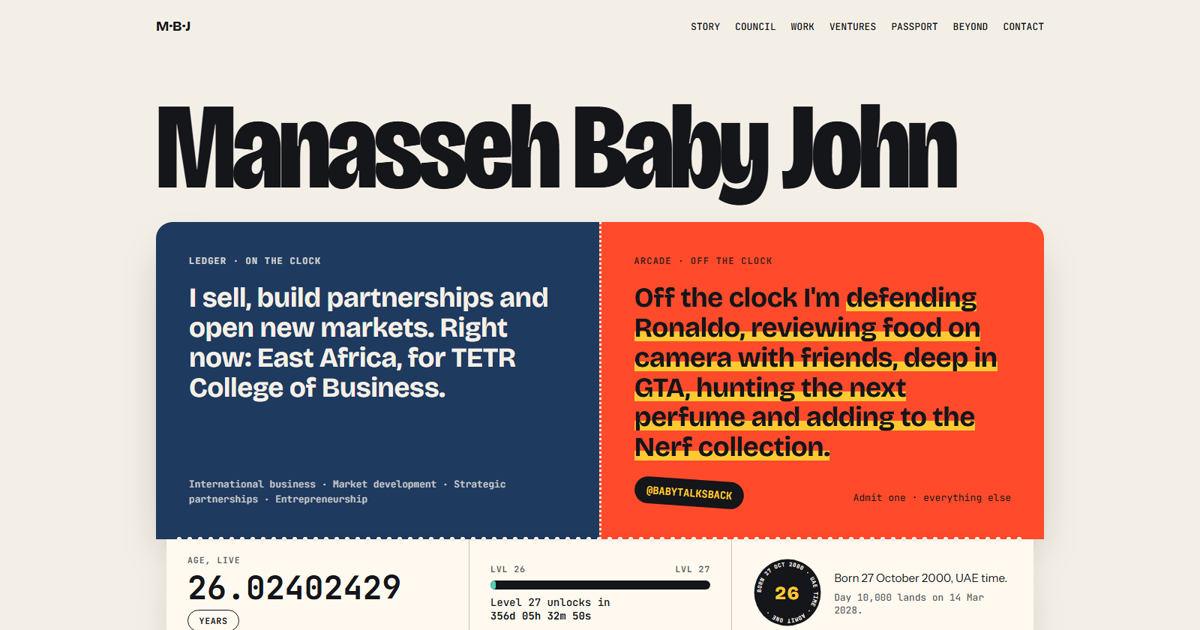
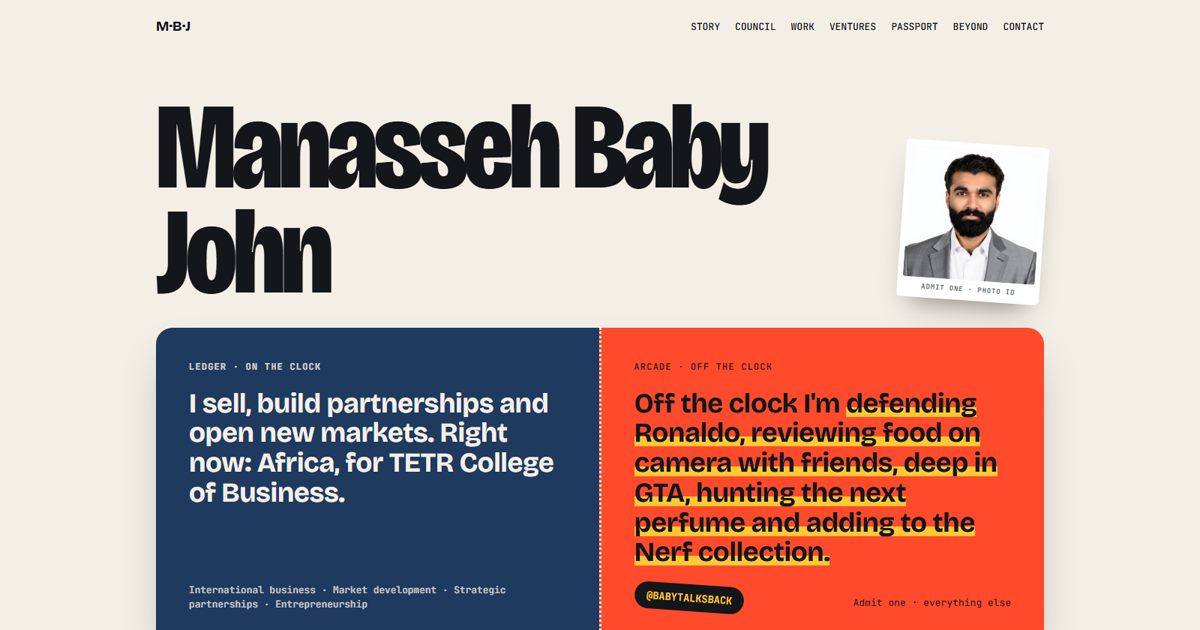
Add the owner's photos; quick fixes for the pill, timeline dates and CONTINUE
- Photos (metadata stripped, resized): headshot ID badge in the hero, three childhood/school prints in Origin, campaign posters in High scores and under the ballot, TETR photo in Work, a camera roll in Off the clock
- School photos cropped so other children are out of frame; sofa photo cropped to the face so the T-shirt print is out
- Bottom pill tucks away while scrolling down and returns on the way up; never while its menu is open or focused
- Career rail axis, TETR bar end and footer year come from today's date instead of being fixed to 2026
- CONTINUE countdown ends on PRESS START (also with reduced motion)
- Removed tab stops from career tickets and interest cards, which did nothing on focus
- Share image regenerated with the photo and the Africa line

diff --git a/index.html b/index.html
@@ -20,7 +20,7 @@
 <link rel="preconnect" href="https://fonts.googleapis.com"><link rel="preconnect" href="https://fonts.gstatic.com" crossorigin>
 <link href="https://fonts.googleapis.com/css2?family=Bricolage+Grotesque:opsz,wdth,wght@12..96,75..100,400..800&family=Instrument+Sans:wght@400;500;600;700&family=JetBrains+Mono:wght@400;500;700&display=swap" rel="stylesheet">
 <!-- bump ?v= on site.css and main.js with each release so browsers fetch the new files -->
-<link rel="stylesheet" href="assets/site.css?v=6">
+<link rel="stylesheet" href="assets/site.css?v=7">
 </head>
 <body>
 <a class="skip" href="#main">Skip to content</a>
@@ -35,7 +35,7 @@
         <a href="#story">Story</a><a href="#council">Council</a><a href="#work">Work</a><a href="#ventures">Ventures</a><a href="#passport">Passport</a><a href="#beyond">Beyond</a><a href="#contact">Contact</a>
       </nav>
     </div>
-    <h1 class="name" data-name>Manasseh Baby John</h1>
+    <div class="name-row"><h1 class="name" data-name>Manasseh Baby John</h1><figure class="idphoto"><img src="assets/img/headshot.jpg" alt="Manasseh Baby John" width="500" height="500"><figcaption class="mono">Admit one · photo ID</figcaption></figure></div>
 
     <div class="tk" role="group" aria-label="Two sides of the same ticket">
       <div class="tk-half tk-ledger">
@@ -87,7 +87,7 @@
 
 <section class="origin" id="story" data-island="Origin story">
   <div class="wrap origin-grid">
-    <p class="big12" aria-hidden="true">12<span class="sticker" data-x2>×2</span></p>
+    <div class="origin-left"><p class="big12" aria-hidden="true">12<span class="sticker" data-x2>×2</span></p><div class="prints" data-reveal><figure class="print"><img src="assets/img/young-hoodie.jpg" alt="Manasseh as a young boy in a hoodie" width="600" height="458" loading="lazy" decoding="async"><figcaption>Young me</figcaption></figure><figure class="print"><img src="assets/img/school-polo.jpg" alt="Manasseh as a schoolboy in a cap and green school polo" width="480" height="480" loading="lazy" decoding="async"><figcaption>School days</figcaption></figure><figure class="print"><img src="assets/img/school-uniform.jpg" alt="Manasseh in his green school uniform" width="480" height="480" loading="lazy" decoding="async"><figcaption>Still in uniform</figcaption></figure></div></div>
     <div>
       <p class="lbl"><b>01</b>Origin story</p>
       <h2 data-split>It started at 12.</h2>
@@ -107,8 +107,8 @@
   <canvas class="dotgrid" aria-hidden="true"></canvas>
   <div class="wrap">
     <p class="lbl"><b>02</b>Student Council · Heriot-Watt University</p>
-    <h2 data-split>High scores.</h2>
-    <p class="lede" data-reveal>Executive of Events in 2019, then Vice President of Events in 2020 and 2021, on the Heriot-Watt University Student Council. Player one: MBJ.</p>
+    <div class="scores-head"><div><h2 data-split>High scores.</h2>
+    <p class="lede" data-reveal>Executive of Events in 2019, then Vice President of Events in 2020 and 2021, on the Heriot-Watt University Student Council. Player one: MBJ.</p></div><div class="posters" data-reveal><figure class="print taped"><img src="assets/img/poster-vp.jpg" alt="Campaign poster: Vote for Manasseh Baby John, Vice President of Events &amp; Community" width="560" height="700" loading="lazy" decoding="async"></figure><figure class="print taped"><img src="assets/img/poster-years.jpg" alt="Campaign poster marking 2019, 2020, 2021 and a fourth year: It's that time of the year again" width="450" height="800" loading="lazy" decoding="async"></figure></div></div>
     <table class="board">
       <thead><tr><th scope="col">Score</th><th scope="col">Entry</th><th scope="col">Player</th></tr></thead>
       <tbody>
@@ -127,6 +127,7 @@
 
 <section class="twist" id="twist" data-island="Plot twist">
   <div class="wrap twist-grid">
+    <div class="ballot-col">
     <div class="ballot" data-ballot>
       <p class="ballot-h">Heriot-Watt University Student Council · Ballot</p>
       <ul>
@@ -135,6 +136,8 @@
         <li><span>VP of Events · 2021</span><b>Won</b></li>
       </ul>
       <div class="pres"><div><h3>President</h3><span class="mono">Record start: most votes in the first three days</span></div><span class="stamp" data-stamp>Disqualified</span></div>
+    </div>
+      <figure class="print taped pres-poster"><img src="assets/img/poster-president.jpg" alt="Campaign poster: Vote Manasseh Baby John, number 4, for Student President" width="640" height="642" loading="lazy" decoding="async"></figure>
     </div>
     <div>
       <p class="lbl lbl-light"><b>03</b>Plot twist</p>
@@ -151,8 +154,8 @@
 <section class="work" id="work" data-island="The work">
   <div class="wrap">
     <p class="lbl"><b>04</b>The work</p>
-    <h2 data-split>Right now: TETR College of Business.</h2>
-    <p class="lede" data-reveal>Regional Manager (MENA), International Recruitment &amp; Partnerships, since October 2024. I'm building TETR's presence in Tanzania, Kenya, Rwanda and Ethiopia: researching the market, finding partners worth having, writing proposals, negotiating, then watching the pipeline for where it leaks.</p>
+    <div class="work-intro"><div><h2 data-split>Right now: TETR College of Business.</h2>
+    <p class="lede" data-reveal>Regional Manager (MENA), International Recruitment &amp; Partnerships, since October 2024. I'm building TETR's presence in Tanzania, Kenya, Rwanda and Ethiopia: researching the market, finding partners worth having, writing proposals, negotiating, then watching the pipeline for where it leaks.</p></div><figure class="print taped" data-reveal><img src="assets/img/tetr-lanyard.jpg" alt="Manasseh at work, wearing his TETR lanyard" width="600" height="800" loading="lazy" decoding="async"><figcaption>On the job</figcaption></figure></div>
 
     <div class="flapwrap" data-reveal>
       <div class="flap-top"><img class="tetr-logo" src="assets/tetr-logo.svg" alt="TETR College of Business" width="137" height="69"><p class="mono">Regional Manager (MENA) · since Oct 2024</p></div>
@@ -193,7 +196,7 @@
     </div>
     <div class="track-clip">
       <div class="track" data-track>
-        <article class="tix t-transit" tabindex="0">
+        <article class="tix t-transit">
           <div class="tx-head mono"><span>RTA · Dubai Tram · Single journey</span><span class="punch" aria-hidden="true"><i></i><i></i><i></i></span></div>
           <p class="when">Summer 2019</p>
           <h4>Ontime Manpower Supply</h4>
@@ -202,7 +205,7 @@
           <svg class="tram-line" viewBox="0 0 300 30" aria-hidden="true"><path d="M8 15H292"/><circle cx="8" cy="15" r="6"/><circle cx="79" cy="15" r="5"/><circle cx="150" cy="15" r="5"/><circle cx="221" cy="15" r="5"/><circle class="end" cx="292" cy="15" r="7"/></svg>
           <div class="tx-foot"><p class="mono">Fare<b>200+ students</b></p><span class="validated mono" aria-hidden="true">Validated<b>2019</b></span></div>
         </article>
-        <article class="tix t-label" tabindex="0">
+        <article class="tix t-label">
           <div class="lb-grid mono">
             <p><small>Ship from</small>Warehouse floor</p>
             <p><small>Ship to</small>Final year</p>
@@ -215,7 +218,7 @@
           <div class="barcode" aria-hidden="true"></div>
           <p class="mono trk" aria-hidden="true"><span>MBJ</span><span>2021</span><span>Summer</span><span>Qty 1</span></p>
         </article>
-        <article class="tix t-lanyard" tabindex="0" data-lanyard>
+        <article class="tix t-lanyard" data-lanyard>
           <div class="strap" aria-hidden="true"><span>EXPO 2020 DUBAI · EXPO 2020 DUBAI</span></div>
           <div class="holo" aria-hidden="true"></div>
           <div class="pass-top"><span class="avatar mono" aria-hidden="true">MBJ</span><div><p class="when">Jan – Mar 2022</p><h4>EXPO 2020 Dubai</h4></div></div>
@@ -223,7 +226,7 @@
           <p>Volunteers, visitors and event operations for one of the smallest countries at the biggest show in town.</p>
           <div class="pass-foot"><svg class="qr" viewBox="0 0 11 11" aria-hidden="true"><rect x="0" y="0" width="1" height="1"/><rect x="1" y="0" width="1" height="1"/><rect x="2" y="0" width="1" height="1"/><rect x="4" y="0" width="1" height="1"/><rect x="8" y="0" width="1" height="1"/><rect x="9" y="0" width="1" height="1"/><rect x="10" y="0" width="1" height="1"/><rect x="0" y="1" width="1" height="1"/><rect x="1" y="1" width="1" height="1"/><rect x="2" y="1" width="1" height="1"/><rect x="7" y="1" width="1" height="1"/><rect x="8" y="1" width="1" height="1"/><rect x="9" y="1" width="1" height="1"/><rect x="10" y="1" width="1" height="1"/><rect x="0" y="2" width="1" height="1"/><rect x="1" y="2" width="1" height="1"/><rect x="2" y="2" width="1" height="1"/><rect x="3" y="2" width="1" height="1"/><rect x="7" y="2" width="1" height="1"/><rect x="8" y="2" width="1" height="1"/><rect x="9" y="2" width="1" height="1"/><rect x="10" y="2" width="1" height="1"/><rect x="5" y="3" width="1" height="1"/><rect x="6" y="3" width="1" height="1"/><rect x="9" y="3" width="1" height="1"/><rect x="1" y="4" width="1" height="1"/><rect x="3" y="4" width="1" height="1"/><rect x="5" y="4" width="1" height="1"/><rect x="8" y="4" width="1" height="1"/><rect x="10" y="5" width="1" height="1"/><rect x="2" y="6" width="1" height="1"/><rect x="6" y="6" width="1" height="1"/><rect x="7" y="6" width="1" height="1"/><rect x="8" y="6" width="1" height="1"/><rect x="1" y="7" width="1" height="1"/><rect x="2" y="7" width="1" height="1"/><rect x="3" y="7" width="1" height="1"/><rect x="4" y="7" width="1" height="1"/><rect x="8" y="7" width="1" height="1"/><rect x="0" y="8" width="1" height="1"/><rect x="1" y="8" width="1" height="1"/><rect x="2" y="8" width="1" height="1"/><rect x="5" y="8" width="1" height="1"/><rect x="6" y="8" width="1" height="1"/><rect x="7" y="8" width="1" height="1"/><rect x="8" y="8" width="1" height="1"/><rect x="0" y="9" width="1" height="1"/><rect x="1" y="9" width="1" height="1"/><rect x="2" y="9" width="1" height="1"/><rect x="0" y="10" width="1" height="1"/><rect x="1" y="10" width="1" height="1"/><rect x="2" y="10" width="1" height="1"/><rect x="3" y="10" width="1" height="1"/><rect x="5" y="10" width="1" height="1"/><rect x="6" y="10" width="1" height="1"/></svg><p class="mono">Palau Pavilion<b>Volunteer Lead</b></p></div>
         </article>
-        <article class="tix t-staff" tabindex="0">
+        <article class="tix t-staff">
           <div class="band mono" aria-hidden="true"><span>Staff</span><span>MENA</span></div>
           <div class="id-row" aria-hidden="true"><span class="chip"></span><span class="avatar mono">MBJ</span></div>
           <p class="when">Mar 2022 – Oct 2024</p>
@@ -232,7 +235,7 @@
           <p>I started before I'd technically graduated. Partners, agents and institutions across MENA, and a crash course in how universities actually make decisions.</p>
           <div class="magstripe" aria-hidden="true"></div>
         </article>
-        <article class="tix t-board" tabindex="0">
+        <article class="tix t-board">
           <div class="bp-head"><img class="tetr-logo sm" src="assets/tetr-logo.svg" alt="" width="137" height="69"><span class="mono">Boarding pass</span></div>
           <div class="bp mono" aria-hidden="true"><span>From<b>UAE</b></span><span class="plane"></span><span>To<b>Africa</b></span></div>
           <p class="when">Oct 2024 – now</p>
@@ -371,11 +374,12 @@
   </div>
   <div class="wrap">
     <div class="bounce" data-bounce>
-      <article class="bc bc-1" tabindex="0"><p class="mono">Fragrance</p><h3>Perfume</h3><p>Big perfume person. Ask me for a recommendation, then clear your afternoon.</p></article>
-      <article class="bc bc-2" tabindex="0"><p class="mono">Gaming</p><h3>GTA &amp; co.</h3><p>GTA and every big release. I play to win, which won't surprise anyone who has read this far.</p></article>
-      <article class="bc bc-3" tabindex="0"><p class="mono">Football</p><h3>Cristiano Ronaldo</h3><p>Happy to discuss it. Not going to change my mind.</p></article>
-      <article class="bc bc-4" tabindex="0"><p class="mono">Collection</p><h3>Nerf</h3><p>A large Nerf blaster collection. Grown-up? Debatable.</p></article>
+      <article class="bc bc-1"><p class="mono">Fragrance</p><h3>Perfume</h3><p>Big perfume person. Ask me for a recommendation, then clear your afternoon.</p></article>
+      <article class="bc bc-2"><p class="mono">Gaming</p><h3>GTA &amp; co.</h3><p>GTA and every big release. I play to win, which won't surprise anyone who has read this far.</p></article>
+      <article class="bc bc-3"><p class="mono">Football</p><h3>Cristiano Ronaldo</h3><p>Happy to discuss it. Not going to change my mind.</p></article>
+      <article class="bc bc-4"><p class="mono">Collection</p><h3>Nerf</h3><p>A large Nerf blaster collection. Grown-up? Debatable.</p></article>
     </div>
+    <div class="roll" data-reveal><p class="mono">Camera roll</p><div class="roll-grid"><figure class="print"><img src="assets/img/life-sofa.jpg" alt="Manasseh relaxing on a sofa" width="580" height="460" loading="lazy" decoding="async"></figure><figure class="print"><img src="assets/img/life-lift.jpg" alt="Lift mirror selfie" width="540" height="720" loading="lazy" decoding="async"></figure><figure class="print"><img src="assets/img/life-mirror.jpg" alt="Mirror selfie with headphones" width="450" height="800" loading="lazy" decoding="async"></figure><figure class="print"><img src="assets/img/life-suit.jpg" alt="Mirror selfie in a black suit" width="540" height="720" loading="lazy" decoding="async"></figure></div></div>
     <div class="tapes">
       <article class="tape tape-main"><p class="mono"><a href="https://www.instagram.com/babytalksback/" target="_blank" rel="noopener">@babytalksback <span aria-hidden="true">↗</span></a></p><h3>Baby Talks Back</h3><p>My main channel and the loudest version of me: podcast-style conversations, food reviews with friends, everyday life.</p></article>
       <article class="tape"><p class="mono"><a href="https://www.instagram.com/chestgangvlogs/" target="_blank" rel="noopener">@chestgangvlogs <span aria-hidden="true">↗</span></a></p><h3>Chestgangvlogs</h3><p>Where it started, before it grew into Baby Talks Back.</p></article>
@@ -405,7 +409,7 @@
 </section>
 </main>
 
-<footer class="foot-bar"><div class="wrap"><span>© 2026 Manasseh Baby John</span><span>Age at time of reading: <b data-age-mini>26.0233</b></span></div></footer>
+<footer class="foot-bar"><div class="wrap"><span>© <span data-year>2026</span> Manasseh Baby John</span><span>Age at time of reading: <b data-age-mini>26.0233</b></span></div></footer>
 
 <nav class="island" data-island-nav aria-label="Quick navigation">
   <button class="island-pill" type="button" aria-expanded="false" aria-controls="island-panel" data-island-toggle>
@@ -435,6 +439,6 @@
 <script src="https://cdn.jsdelivr.net/npm/gsap@3.15.0/dist/CustomWiggle.min.js" defer></script>
 <script src="https://cdn.jsdelivr.net/npm/gsap@3.15.0/dist/CustomBounce.min.js" defer></script>
 <script src="https://cdn.jsdelivr.net/npm/lenis@1.3.27/dist/lenis.min.js" defer></script>
-<script src="assets/main.js?v=6" defer></script>
+<script src="assets/main.js?v=7" defer></script>
 </body>
 </html>

diff --git a/assets/site.css b/assets/site.css
@@ -174,7 +174,7 @@ h2 { font:800 clamp(2.4rem,6vw,5rem)/.95 var(--display); letter-spacing:-.025em;
 .lane { display:grid; grid-template-columns:64px minmax(0,1fr); align-items:center; gap:12px; }
 .lane-k { font:700 .7rem var(--mono); text-transform:uppercase; letter-spacing:.08em; color:var(--mute); }
 .bars { position:relative; height:46px; }
-.bar { position:absolute; left:calc(var(--a) / 8 * 100%); width:calc((var(--b) - var(--a)) / 8 * 100%); top:15px; height:16px; border-radius:4px; background:var(--navy); transform-origin:left center; }
+.bar { position:absolute; left:calc(var(--a) / var(--span, 8) * 100%); width:calc((var(--b) - var(--a)) / var(--span, 8) * 100%); top:15px; height:16px; border-radius:4px; background:var(--navy); transform-origin:left center; }
 .bar.deg { background:var(--yellow); box-shadow:inset 0 0 0 2px var(--ink); }
 .bar.nike { background:var(--tomato); }
 .bar.tetr { background:var(--mint); box-shadow:inset 0 0 0 2px var(--ink); }
@@ -183,7 +183,7 @@ h2 { font:800 clamp(2.4rem,6vw,5rem)/.95 var(--display); letter-spacing:-.025em;
 .bar.hw em { left:auto; right:0; } /* keeps it clear of the Nike label below */
 .axis { width:calc(100% - 76px); height:8px; margin-left:76px; }
 .axis path { stroke:var(--ink); stroke-width:3; fill:none; vector-effect:non-scaling-stroke; }
-.years { display:grid; grid-template-columns:repeat(8,1fr); margin-left:76px; font:500 .7rem var(--mono); color:var(--mute); }
+.years { display:grid; grid-template-columns:repeat(var(--span, 8),1fr); margin-left:76px; font:500 .7rem var(--mono); color:var(--mute); }
 @media (max-width:560px) { .lane { grid-template-columns:44px minmax(0,1fr); gap:8px; } .axis, .years { margin-left:52px; width:calc(100% - 52px); } .years span:nth-child(even) { visibility:hidden; } .bar em { font-size:.6rem; } }
 
 /* tickets wrap in a grid by default; the script turns them into a pinned horizontal track on wide screens */
@@ -406,7 +406,7 @@ a.vstub:hover { text-decoration:underline; }
 
 /* scroll island: section, progress ring, live age; doubles as the mobile nav */
 .island { position:fixed; left:50%; bottom:calc(14px + env(safe-area-inset-bottom, 0px)); z-index:60; translate:-50% 0; transition:opacity .35s, transform .35s; }
-.island:not(.is-on) { opacity:0; transform:translateY(24px); pointer-events:none; }
+.island.is-tucked:not(:focus-within), .island:not(.is-on) { opacity:0; transform:translateY(24px); pointer-events:none; }
 .island-pill { display:flex; align-items:center; gap:10px; background:var(--ink); color:var(--paper); border:0; border-radius:999px; padding:6px 18px 6px 6px; font-weight:600; font-size:.9rem; cursor:pointer; box-shadow:0 12px 30px rgba(0,0,0,.35); white-space:nowrap; }
 .ring { width:32px; height:32px; }
 .ring circle { fill:none; stroke:#3A3D45; stroke-width:3.5; }
@@ -430,3 +430,41 @@ a.vstub:hover { text-decoration:underline; }
 .caution.c1 { top:104px; rotate:-7deg; }
 .caution.c2 { top:142px; rotate:5deg; background:repeating-linear-gradient(-45deg, var(--ink) 0 14px, var(--yellow) 14px 28px); color:transparent; height:16px; padding:0; }
 .vtag.taped { filter:blur(3px); user-select:none; }
+
+/* photos: prints pinned to the page */
+.print { margin:0; background:#fff; padding:8px 8px 10px; border-radius:4px; box-shadow:0 20px 34px -18px rgba(20,22,26,.55); position:relative; }
+.print img { display:block; width:100%; height:auto; border-radius:2px; }
+.print figcaption { font:500 .66rem var(--mono); text-transform:uppercase; letter-spacing:.08em; color:var(--mute); text-align:center; margin-top:8px; }
+.print.taped::before { content:''; position:absolute; left:50%; top:-12px; width:74px; height:22px; translate:-50% 0; rotate:-4deg; background:rgba(255,201,51,.78); box-shadow:0 1px 2px rgba(0,0,0,.15); z-index:1; }
+.name-row { display:flex; align-items:flex-end; justify-content:space-between; gap:clamp(14px,3vw,40px); margin:clamp(36px,6vw,80px) 0 30px; }
+.name-row .name { margin:0; }
+.idphoto { flex:none; width:clamp(92px,14vw,190px); margin:0 0 6px; background:#fff; padding:7px 7px 9px; border-radius:6px; rotate:4deg; box-shadow:0 22px 36px -18px rgba(20,22,26,.5); }
+.idphoto img { display:block; width:100%; height:auto; border-radius:3px; }
+.idphoto figcaption { font:700 .56rem var(--mono); text-transform:uppercase; letter-spacing:.1em; color:var(--mute); text-align:center; margin-top:6px; white-space:nowrap; overflow:hidden; text-overflow:ellipsis; }
+.origin-left { display:grid; gap:34px; justify-items:start; }
+.prints { display:flex; align-items:flex-start; }
+.prints .print { width:clamp(120px,15vw,190px); }
+.prints .print:nth-child(1) { rotate:-6deg; }
+.prints .print:nth-child(2) { rotate:3deg; margin:22px 0 0 -18px; }
+.prints .print:nth-child(3) { rotate:-2deg; margin:-6px 0 0 -18px; }
+.scores-head { display:grid; grid-template-columns:minmax(0,1fr) auto; gap:24px clamp(24px,4vw,56px); align-items:center; }
+.posters { display:flex; gap:22px; align-items:flex-start; }
+.posters .print { width:clamp(120px,13vw,180px); }
+.posters .print:nth-child(1) { rotate:-4deg; }
+.posters .print:nth-child(2) { rotate:5deg; margin-top:18px; }
+.ballot-col { display:grid; gap:0; }
+.pres-poster { width:min(240px,60%); justify-self:end; rotate:6deg; margin:-18px 10px 0 0; }
+.work-intro { display:grid; grid-template-columns:minmax(0,1fr) auto; gap:24px clamp(24px,4vw,56px); align-items:end; }
+.work-intro .print { width:clamp(150px,17vw,230px); rotate:3deg; }
+.roll { margin-bottom:40px; }
+.roll > .mono { font-size:.72rem; text-transform:uppercase; letter-spacing:.1em; color:var(--mute); margin-bottom:14px; }
+.roll-grid { display:grid; grid-template-columns:repeat(4,minmax(0,1fr)); gap:16px; }
+.roll-grid .print:nth-child(odd) { rotate:-1.5deg; }
+.roll-grid .print:nth-child(even) { rotate:1.5deg; }
+.roll-grid .print img { aspect-ratio:3 / 4; object-fit:cover; }
+@media (max-width:820px) {
+  .scores-head, .work-intro { grid-template-columns:1fr; }
+  .posters, .work-intro .print { justify-self:start; }
+  .roll-grid { grid-template-columns:repeat(2,minmax(0,1fr)); }
+  .pres-poster { margin-top:-10px; }
+}

diff --git a/assets/main.js b/assets/main.js
@@ -281,6 +281,19 @@ function curvedLoop() {
     onPress() { dragging = true; }, onDrag() { off += this.deltaX * scale(); }, onRelease() { dragging = false; vel = -this.deltaX * scale() * .4; } });
 }
 
+const pressStart = () => { $('[data-count9]').closest('p').textContent = 'PRESS START'; };
+
+// career rail: the axis runs from 2019 to the current year and TETR's bar ends today, so neither goes stale
+function careerRail(now = Date.now()) {
+  const Y0 = 2019, yNow = new Date(now).getUTCFullYear(), span = yNow - Y0 + 1;
+  const rail = $('.rail');
+  rail.style.setProperty('--span', span);
+  $('.years', rail).innerHTML = Array.from({ length: span }, (_, i) => `<span>${Y0 + i}</span>`).join('');
+  $('.bar.tetr', rail).style.setProperty('--b', ((now - Date.UTC(Y0, 0, 1)) / (365.25 * 864e5)).toFixed(2));
+  $$('[data-year]').forEach(el => { el.textContent = yNow; });
+}
+careerRail();
+
 /* ---------- boot ---------- */
 async function boot() {
   await document.fonts.ready;
@@ -294,7 +307,10 @@ async function boot() {
   const island = $('[data-island-nav]'), pill = $('[data-island-toggle]'), panel = $('#island-panel'), now = $('[data-island-now]');
   // refreshPriority -1: measure these after the Work pin has added its scroll length
   ScrollTrigger.create({ trigger: '.hero', start: 'bottom 55%', end: 'max', refreshPriority: -1, onToggle: s => island.classList.toggle('is-on', s.isActive) });
-  ScrollTrigger.create({ start: 0, end: 'max', refreshPriority: -1, onUpdate: s => island.style.setProperty('--p', s.progress.toFixed(3)) });
+  ScrollTrigger.create({ start: 0, end: 'max', refreshPriority: -1, onUpdate: s => {
+    island.style.setProperty('--p', s.progress.toFixed(3));
+    island.classList.toggle('is-tucked', s.direction === 1 && panel.hidden);
+  } });
   $$('[data-island]').forEach(sec => ScrollTrigger.create({ trigger: sec, start: 'top 50%', end: 'bottom 50%', refreshPriority: -1, onToggle: s => {
     if (!s.isActive || now.textContent === sec.dataset.island) return;
     reduce ? (now.textContent = sec.dataset.island) : gsap.to(now, { duration: .5, scrambleText: { text: sec.dataset.island, chars: 'upperCase', speed: .7 } });
@@ -363,7 +379,7 @@ async function boot() {
     });
   });
 
-  if (!reduce) motion(mm);
+  if (!reduce) motion(mm); else pressStart();
   vantaGlobe();
   ScrollTrigger.refresh();
 }
@@ -403,7 +419,7 @@ function motion(mm) {
     .from('[data-stamp]', { scale: 3, autoAlpha: 0, duration: .45, ease: 'back.out(1.4)' }, '+=.25')
     .to('[data-ballot]', { x: 12, duration: .6, ease: 'shake' }, '<.3')
     .to('.twist', { backgroundColor: '#FF4B2B', duration: .12, yoyo: true, repeat: 1 }, '<')
-    .to({ n: 9 }, { n: 0, duration: 4.5, ease: 'none', onUpdate() { $('[data-count9]').textContent = Math.ceil(this.targets()[0].n); } }, '+=.3')
+    .to({ n: 9 }, { n: 0, duration: 4.5, ease: 'none', onUpdate() { $('[data-count9]').textContent = Math.ceil(this.targets()[0].n); }, onComplete: pressStart }, '+=.3')
     .to('[data-continue] .btn', { scale: 1.06, duration: .25, yoyo: true, repeat: 3 });
 
   // career rail: the axis draws, bars grow in date order
